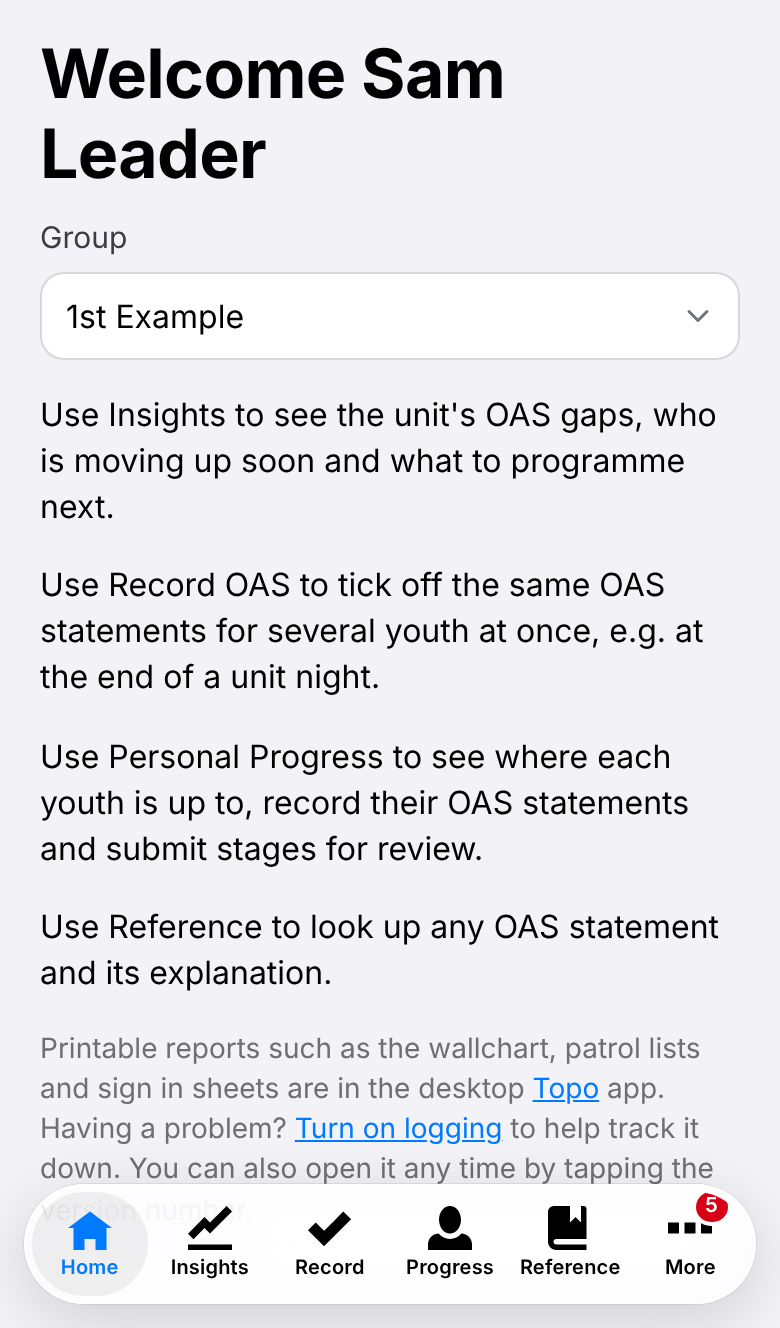
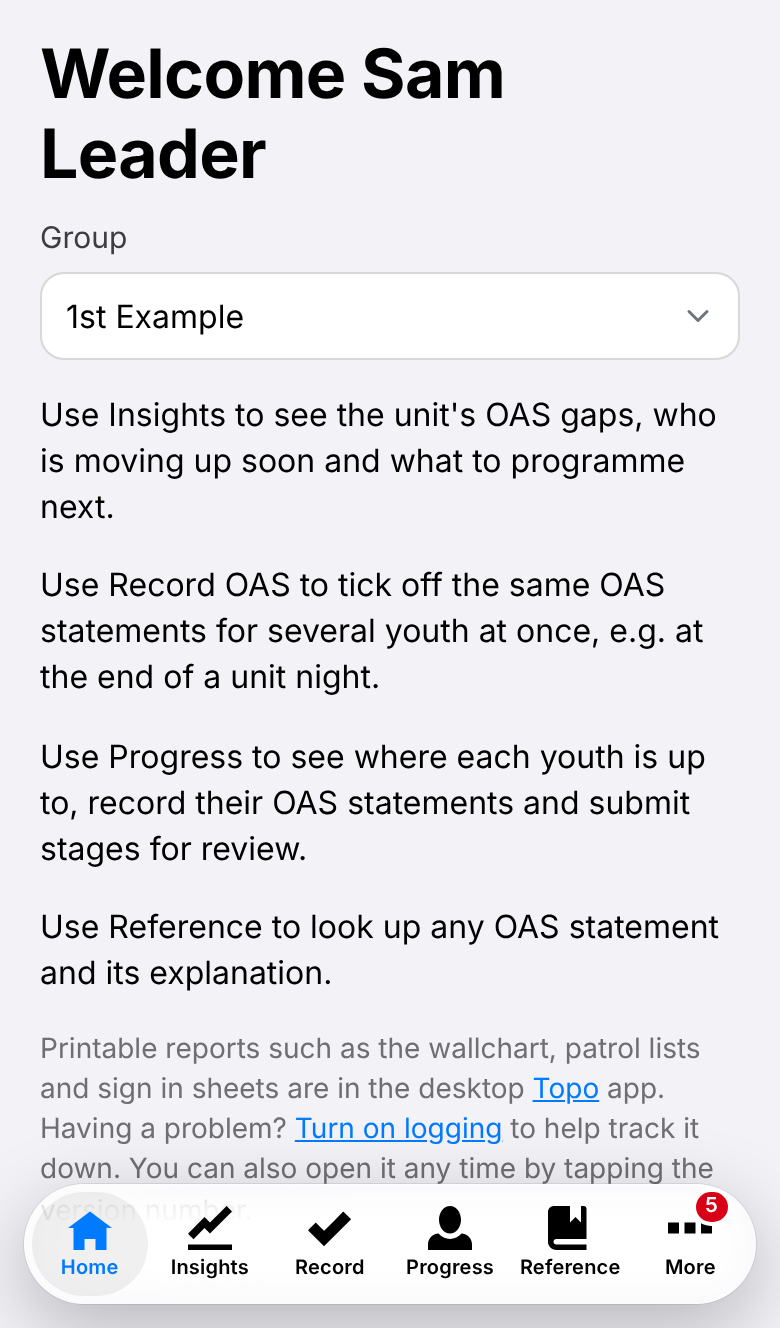
Rename Personal Progress to Progress
In the sidebar, on the home page and in the README. The page and its tab were already called Progress.

Claude-Session: https://claude.ai/code/session_015mRLp29RKmPLuQrvmduhrB

Changed region(s): [[0.0308, 0.5557, 0.8923, 0.6483]]

diff --git a/src/lib/navigation.ts b/src/lib/navigation.ts
@@ -45,7 +45,7 @@ export function mainPages({ isYouth }: NavOptions): NavPage[] {
 		);
 	}
 	pages.push(
-		{ href: 'progress/', icon: 'person', title: 'Personal Progress', shortTitle: 'Progress' },
+		{ href: 'progress/', icon: 'person', title: 'Progress', shortTitle: 'Progress' },
 		{ href: 'oas-reference/', icon: 'book', title: 'Reference', shortTitle: 'Reference' }
 	);
 	return pages;

diff --git a/src/routes/+page.svelte b/src/routes/+page.svelte
@@ -62,8 +62,8 @@
 		a unit night.
 	</p>
 	<p>
-		Use Personal Progress to see where each youth is up to, record their OAS statements and submit
-		stages for review.
+		Use Progress to see where each youth is up to, record their OAS statements and submit stages for
+		review.
 	</p>
 	<p>Use Reference to look up any OAS statement and its explanation.</p>
 {/if}

diff --git a/tests/screenshots/readme.shots.ts b/tests/screenshots/readme.shots.ts
@@ -49,7 +49,7 @@ test('record OAS', async ({ page }) => {
 	await shot(page, 'record-oas');
 });
 
-test('personal progress', async ({ page }) => {
+test('progress', async ({ page }) => {
 	await navigate(page, 'progress/');
 	await page.locator('.youth').first().click();
 	await expect(page.locator('.stage-detail').first()).toBeVisible();

diff --git a/src/routes/progress/+page.svelte b/src/routes/progress/+page.svelte
@@ -1,4 +1,4 @@
-<!-- Personal Progress: the unit's youth, each opening their progress details -->
+<!-- Progress: the unit's youth, each opening their progress details -->
 <script lang="ts">
 	import ChooseUnit from '#lib/components/ChooseUnit.svelte';
 	import { pullToRefresh } from '#lib/actions/pullToRefresh.js';

diff --git a/tests/e2e/shell.e2e.ts b/tests/e2e/shell.e2e.ts
@@ -158,7 +158,7 @@ test.describe('desktop', () => {
 				'Home',
 				'Insights',
 				'Record',
-				'Personal Progress',
+				'Progress',
 				'Reference',
 				'Approvals 3 waiting for you',
 				'Logout'

diff --git a/README.md b/README.md
@@ -9,7 +9,7 @@ Beacon is a phone-first helper for Scouts Australia leaders. It reads your unit'
 |                                                                Home                                                                 |                                                                           Insights                                                                           |                                                               Record OAS                                                                |
 | :---------------------------------------------------------------------------------------------------------------------------------: | :----------------------------------------------------------------------------------------------------------------------------------------------------------: | :-------------------------------------------------------------------------------------------------------------------------------------: |
 |                      <img src="docs/screenshots/home.png" width="240" alt="Home, with what each page is for">                       | <img src="docs/screenshots/insights.png" width="240" alt="Insights: how many youth have completed each OAS stage, and the most common missing requirements"> |       <img src="docs/screenshots/record-oas.png" width="240" alt="Record OAS: choosing statements to sign off for several youth">       |
-|                                                        **Personal Progress**                                                        |                                                                        **Approvals**                                                                         |                                                              **Reference**                                                              |
+|                                                            **Progress**                                                             |                                                                        **Approvals**                                                                         |                                                              **Reference**                                                              |
 | <img src="docs/screenshots/progress.png" width="240" alt="A youth's progress details, with insights on what's close to completing"> |              <img src="docs/screenshots/approvals.png" width="240" alt="Approvals: submissions waiting for the Unit Council, grouped by youth">              | <img src="docs/screenshots/reference.png" width="240" alt="The OAS reference, with a statement expanded to show Terrain's explanation"> |
 
 Every name in these is made up. `npm run screenshots` takes them again, from the same pretend unit the page tests use.
